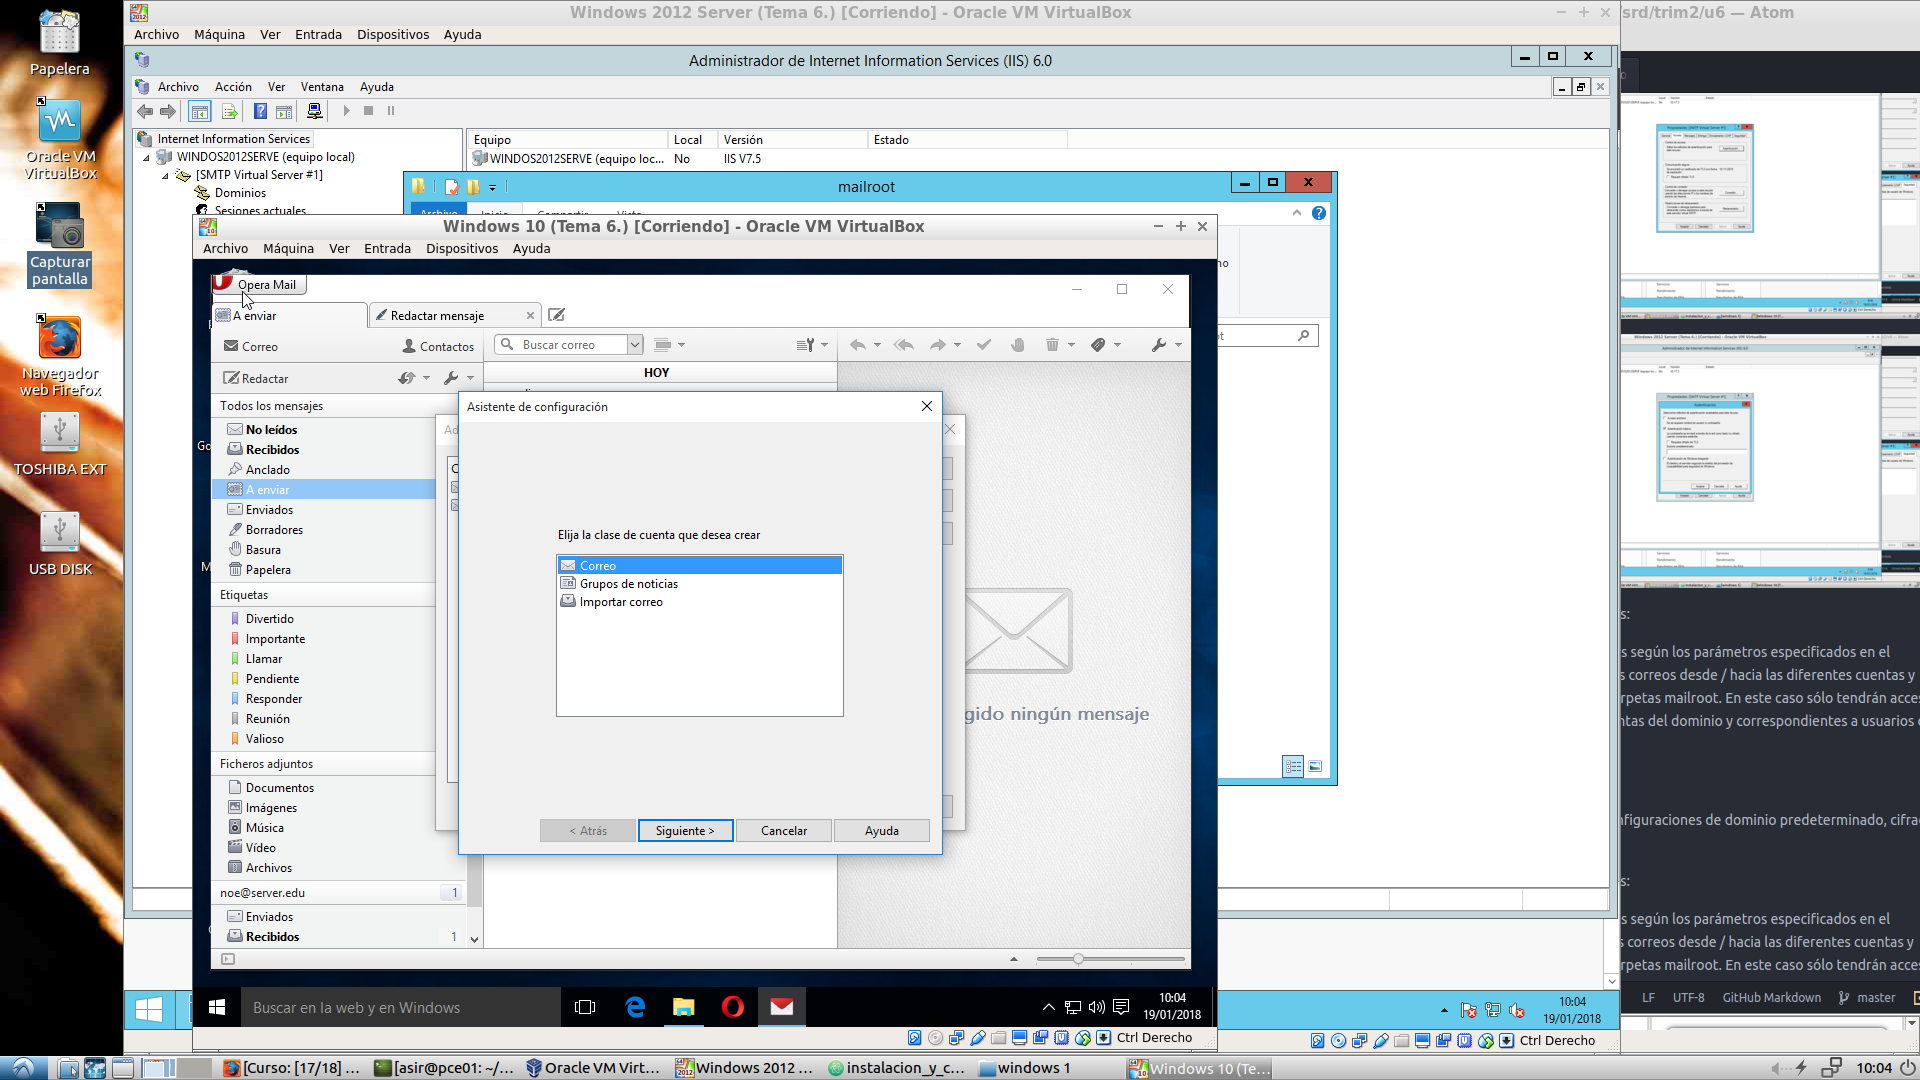
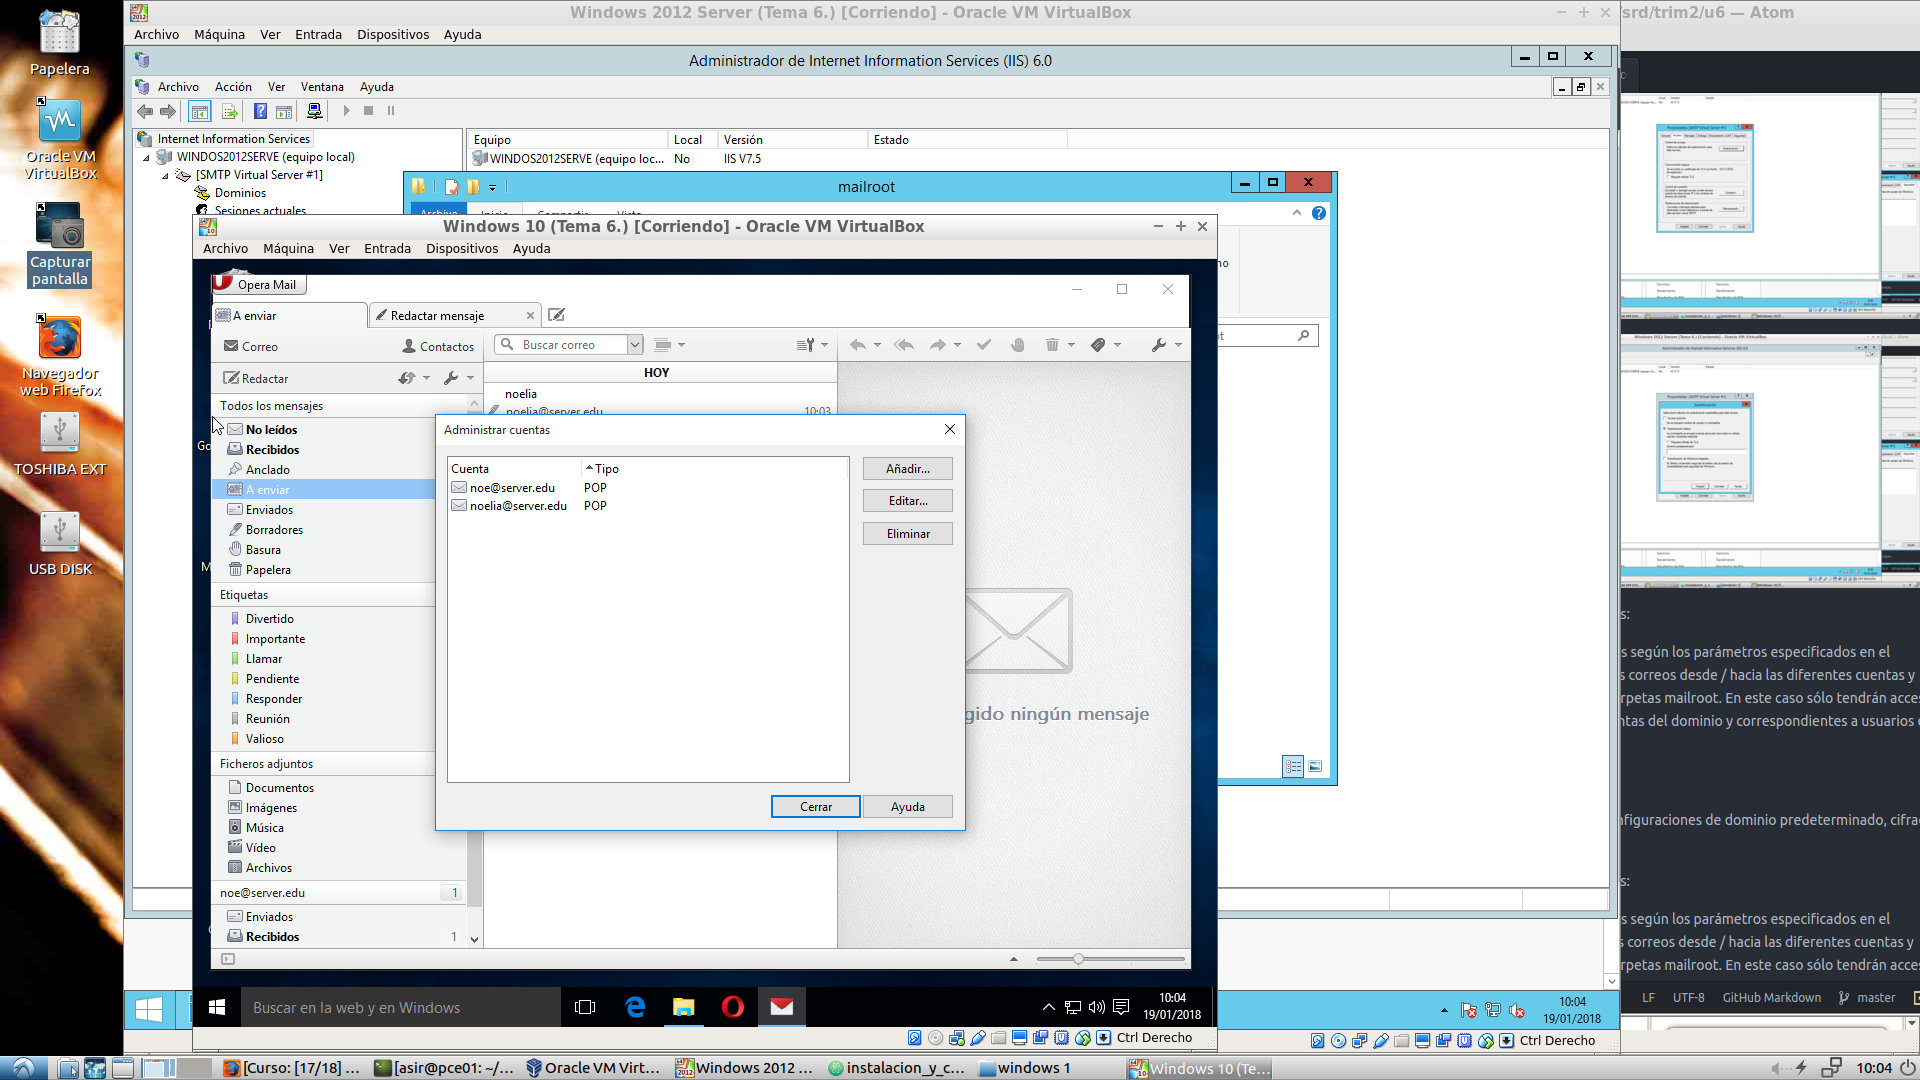
Fotos 86

Changed region(s): [[0.2188, 0.3361, 0.5, 0.825]]

diff --git a/trim2/u6/instalacion_y_configuracion_de_servicios_de_correo_electronico_windows.md b/trim2/u6/instalacion_y_configuracion_de_servicios_de_correo_electronico_windows.md
@@ -224,6 +224,8 @@ Realizamos la configuración en las propiedades de SMTP.
 
         ![imagen84](./images/instalacion_y_configuracion_de_servicios_de_correo_electronico_windows/84.png)
 
+--- OK.
+
     * En el Cliente Windows:
 
       Configuramos las cuentas según los parámetros especificados en el Servidor.
@@ -231,6 +233,13 @@ Realizamos la configuración en las propiedades de SMTP.
         ![imagen85](./images/instalacion_y_configuracion_de_servicios_de_correo_electronico_windows/85.png)
 
         ![imagen86](./images/instalacion_y_configuracion_de_servicios_de_correo_electronico_windows/86.png)
+
+
+
+
+
+
+
 
       Enviamos varios correos desde / hacia las diferentes cuentas y comprobar envío y carpetas mailroot. En este caso sólo tendrán acceso al servidor SMTP cuentas del dominio y correspondientes a usuarios de AD.
 
